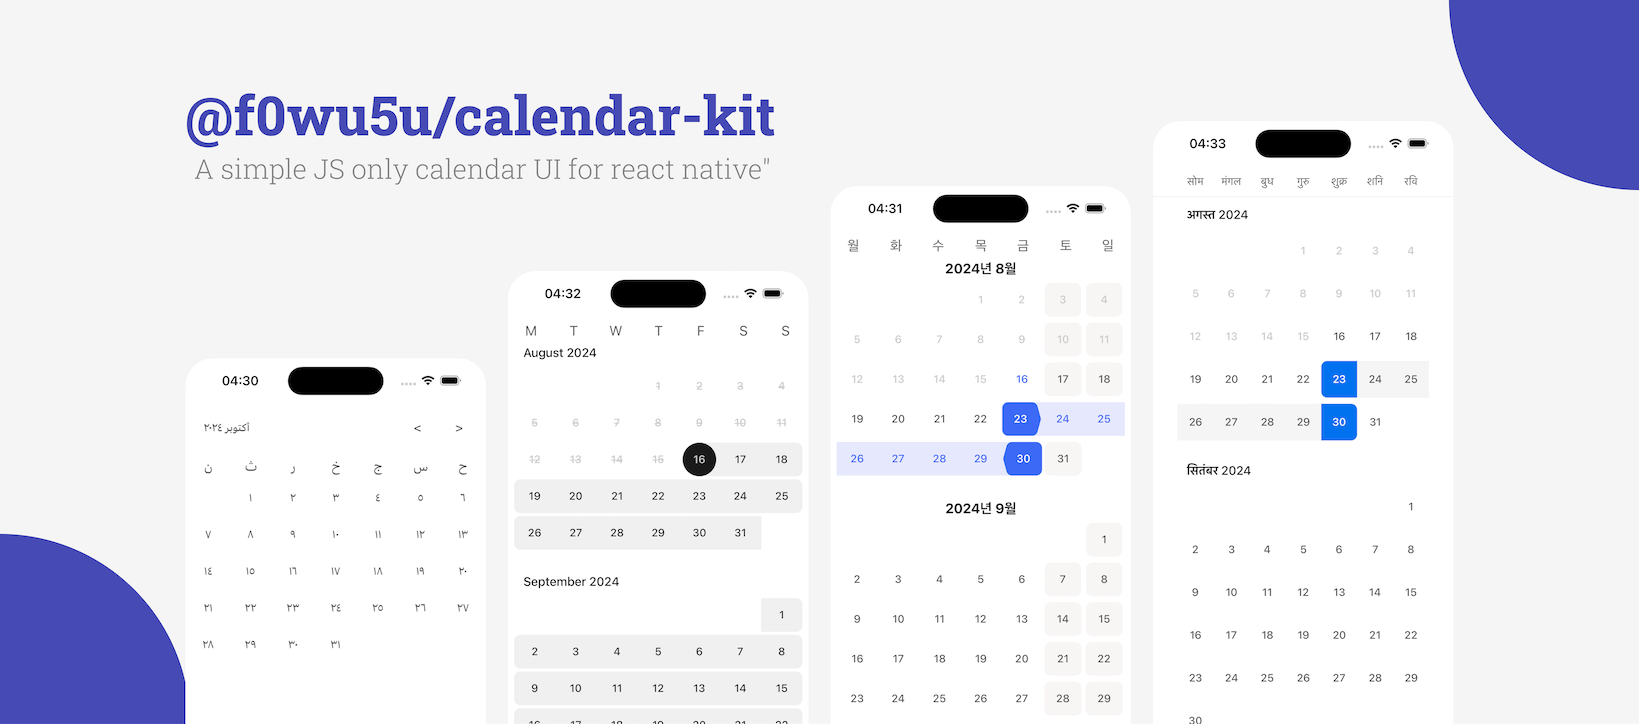
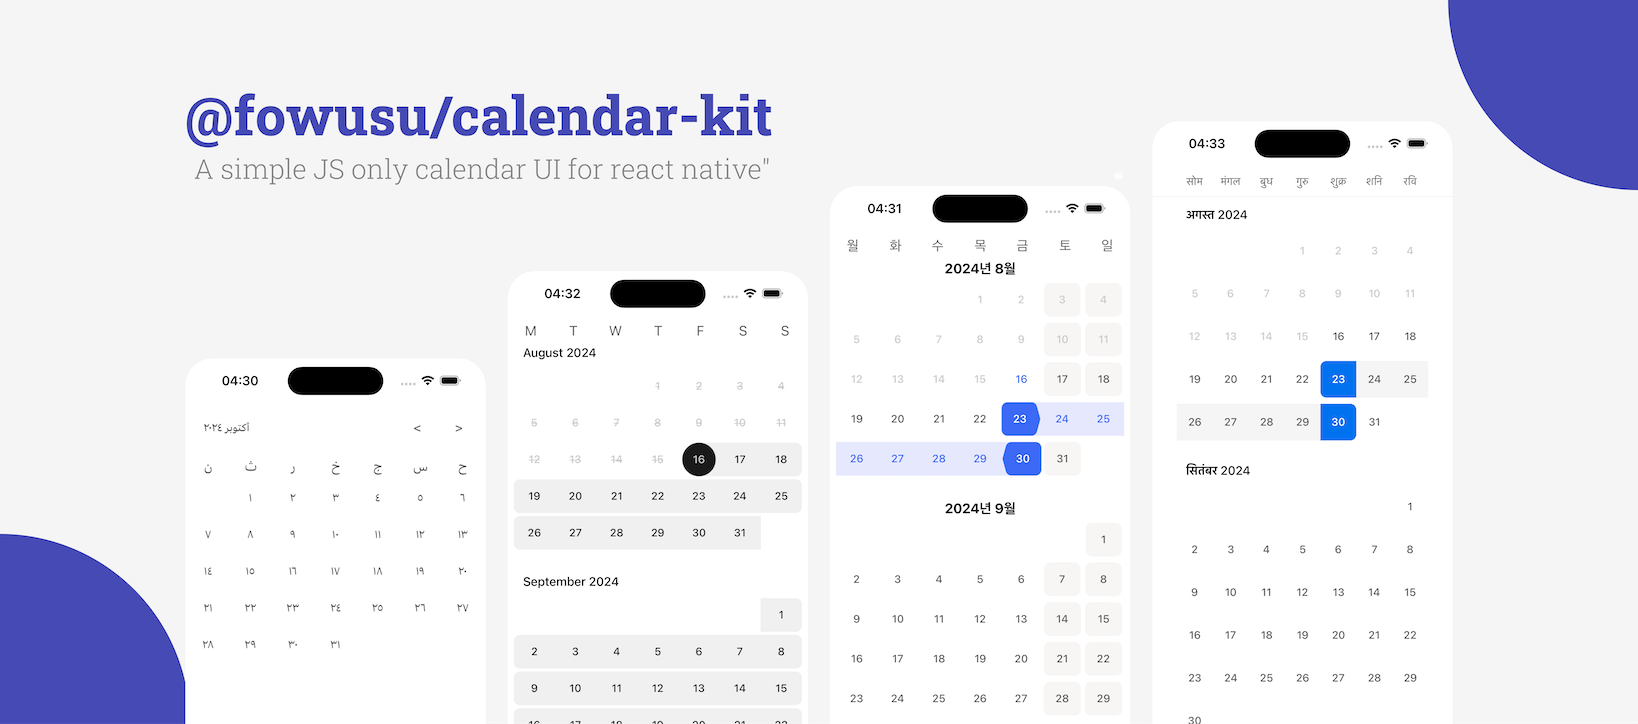
chore(docs): updated poster image & readme (#47)

diff --git a/README.md b/README.md
@@ -47,12 +47,12 @@ cd ios; pod install
 ```
 
 # Usage
-Here’s a basic example of how to use the `@f0wu5u/calendar-kit` package:
+Here’s a basic example of how to use the `@fowusu/calendar-kit` package:
 
 ## Calendar
 ```typescript jsx
 import React, { useCallback, useState } from "react";
-import { Calendar, toLocaleDateString } from "@f0wu5u/calendar-kit";
+import { Calendar, toLocaleDateString } from "@fowusu/calendar-kit";
 
 const today = new Date();
 
@@ -78,7 +78,7 @@ const CalendarComponent = () => {
 ## CalendarList
 ```typescript jsx
 import React, { useCallback, useState } from "react";
-import {CalendarList, toLocaleDateString} from "@f0wu5u/calendar-kit";
+import {CalendarList, toLocaleDateString} from "@fowusu/calendar-kit";
 
 const today = new Date();
 const todayDateString = toLocaleDateString(today);
